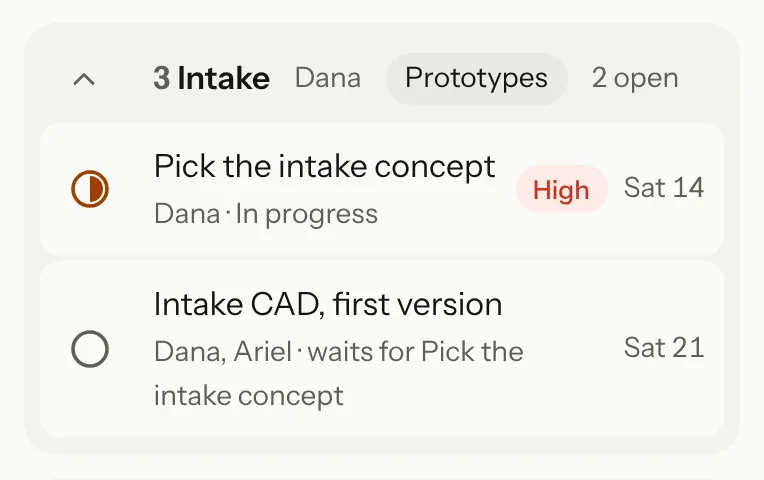
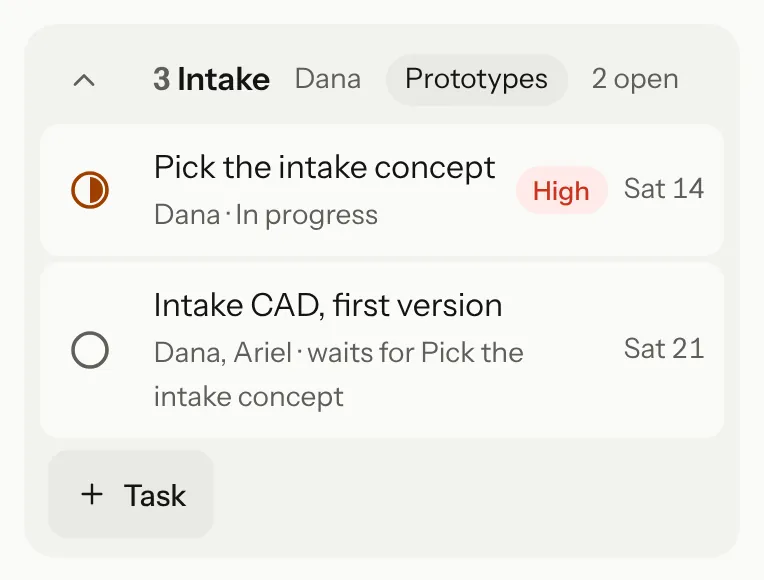
Guide: + Task is back under each Calendar group on phones
Follows main's change (no floating button): the board and one-line task
steps show + Task under a group again; Calendar shots retaken.

Claude-Session: https://claude.ai/code/session_016PDfFrwxRHxYPNRjmCjVg7

diff --git a/src/content/guide.tsx b/src/content/guide.tsx
@@ -649,11 +649,11 @@ export const CHAPTERS: Chapter[] = [
           <>Filters: one team, or only your own tasks.</>,
           <>One box per group: each team, CNC, the Workshop, and each subsystem with its lead and the phase it’s in.</>,
           <>
-            <B>+ Task</B> adds a task. On a computer there’s one under each group.
+            <B>+ Task</B> under a group adds a task to it.
           </>,
         ],
         tip: 'A lead who hasn’t sent today’s update sees a Send today’s update row at the top.',
-        shot: { name: 'cal-board', alt: 'The Calendar board on a phone: the views, the filters, the first group and the + Task button marked 1 to 4.' },
+        shot: { name: 'cal-board', alt: 'The Calendar board on a phone: the views, the filters, the first group and its + Task button marked 1 to 4.' },
       },
       {
         title: 'Tasks',
@@ -667,9 +667,8 @@ export const CHAPTERS: Chapter[] = [
       },
       {
         title: 'Add a task in one line',
-        body: 'Press + Task.',
+        body: 'Press + Task under the group.',
         how: [
-          <>The group. It starts on the last one you used, or the one you lead.</>,
           <>
             Type the task with the day at the end: <C>Roller test thu high @noa</C>. The day (<C>thu</C>, <C>14/11</C>, <C>mon-thu</C>), High or Low, and <C>@name</C> for who are read from the end.
           </>,
@@ -677,7 +676,7 @@ export const CHAPTERS: Chapter[] = [
             <B>Add</B>.
           </>,
         ],
-        shot: { name: 'cal-new', alt: 'The New task sheet: the group, the typed line and Add marked 1 to 3.' },
+        shot: { name: 'cal-new', alt: 'A task typed in one line under 3 Intake, with the line marked 1 and Add marked 2.' },
       },
       {
         title: 'Open a task',
@@ -691,7 +690,7 @@ export const CHAPTERS: Chapter[] = [
         how: [
           <>Today’s update, for the group’s lead. It gets a tick once it’s sent.</>,
           <>Three tabs: the group’s Tasks, its Phases and its Updates. Today’s update is written right there in Updates.</>,
-          <>Add a task to this group in one line, the same way as + Task.</>,
+          <>Add a task to this group in one line, the same way as on the board.</>,
         ],
         shot: { name: 'cal-group', alt: 'The Intake group page: today’s update, the Tasks, Phases and Updates tabs, and the task line marked 1 to 3.' },
       },
